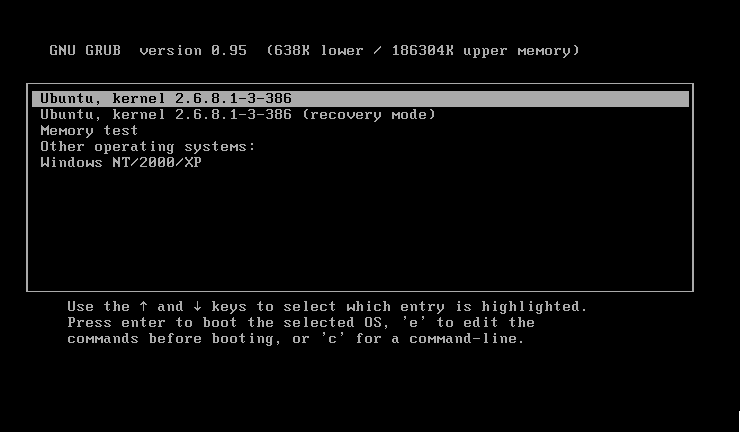
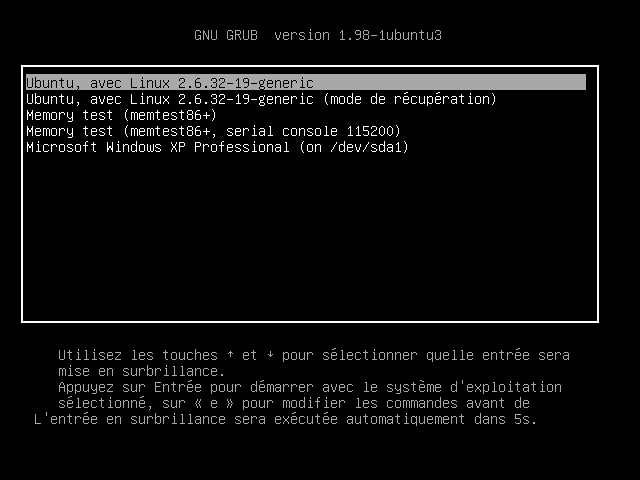
mise à jour chapitre 1 & 2

Changed region(s): [[0.0312, 0.0602, 0.9375, 0.9028]]

diff --git a/corps/chapitre2/chapitre2.tex b/corps/chapitre2/chapitre2.tex
@@ -47,16 +47,17 @@ Sur les ordinateurs récents, il est souvent possible d'appuyer simplement sur l
 Si cela ne fonctionne pas ou que vous ne vous sentez pas à même de configurer \RefGlossaire{Système}{-}{Séquence de démarrage}{l'ordre de démarrage}, Ubuntu peut effectuer cette tâche pour vous. Pour cela, insérez votre CD-ROM lorsque Windows est démarré. La fenêtre \ref{ImgHelpBootOnCD} apparaîtra alors et vous proposera plusieurs options en anglais. Choississez «~Démo and full installation~». Redémarrer la machine sera alors nécessaire et la troisième option «~Help me to boot from CD~» devra alors être sélectionné.
 \ImgCentree{8}{corps/chapitre2/img/HelpBootSurCD.png}{Vous pouvez choisir ici de démarrer sur le CD-ROM}{ImgHelpBootOnCD}
 \subsubsubsection{Premier écran et lancement d'Ubuntu}
-Un menu est automatiquement présenté sur lequel vous pourrez choisir la langue désirée par les touches fléchées puis en appuyant sur \Touche{Entrée}. Il vous est possible de revenir sur votre choix en appuyant sur la touche \Touche{F2}.\par
+Un premier écran \ref{ImgLiveCD0} s'affiche alors pendant quelques secondes. Si vous n'appuyez sur aucune touche, ubuntu démarrera (voir \ref{ImgLiveCD3}), et il vous sera présenté un écran \ref{ImgLiveCD4-2} vous permettant de choisir votre langue, puis soit d'installer, soit d'essayer d'ubuntu sans effectuer immédiatement l'installation. Si l'installation est sélectionnée, vous pouvez passer à la section \ref{RefInstall}, sinon, vous pouvez passer à \ref{RefSessionLive}.\par
+\ChoixDebutLive
+Si vous appuyez sur une touche lors du premier écran, un menu est automatiquement présenté sur lequel vous pourrez choisir la langue désirée par les touches fléchées puis en appuyant sur \Touche{Entrée}. Il vous est possible de revenir sur votre choix en appuyant sur la touche \Touche{F2}.\par
 Vous obtiendrez ainsi un menu et une interface en Français (ou autres) comme montré sur la figure \ref{ImgLiveCD2}.\par
-\ChoixDebutInstall
 À noter que vous n'aurez pas à faire cette action si vous utilisez le CD d'ubuntu-fr entièrement francisé, on l'a fait pour vous.
+\ChoixDebutInstall
 \section{Session Live}
 \label{RefSessionLive}
 C'est parti, vous avez validé «~Essayer Ubuntu sans rien changer sur votre ordinateur~», une session live se lance. Soyez patient, la détection du matériel de votre ordinateur est en cours et une jolie icône de chargement est là pour vous faire patienter, puis une barre défilante --- cf \ref{ImgLiveCD3}\ldots{}\par
-\ImgCentree{4.99}{corps/chapitre2/img/LiveCD3.png}{Démarrage du Desktop CD}{ImgLiveCD3}
 \begin{nota}
-Vous aurez noté l'option «~Installer Ubuntu~» sur l'image \ref{ImgLiveCD2}. Cette option correspond à un raccourci vous amenant directement à installer votre nouveau système d'exploitation sans essai au préalable. Le résultat est le même que la démarche plus complète que je vous donne -- hormis que vous ne pourrez pas configurer votre connexion à l'\RefGlossaire{-}{L'Internet}{Internet}{Internet} par ce moyen-ci.\\
+Vous aurez noté l'option «~Installer Ubuntu~» sur les images \ref{ImgLiveCD} \ref{ImgLiveCD2}. Cette option correspond à un raccourci vous amenant directement à installer votre nouveau système d'exploitation sans essai au préalable. Le résultat est le même que la démarche plus complète que je vous donne -- hormis que vous ne pourrez pas configurer votre connexion à l'\RefGlossaire{-}{L'Internet}{Internet}{Internet} par ce moyen-ci.\\
 Les autres options permettent de vérifier la bonne intégration de votre CD-ROM, tester la mémoire vive de votre ordinateur ou encore de démarrer classiquement à partir du disque dur.
 \end{nota}
 Une fois l'interface graphique chargée, vous devriez retrouver l'écran comme présenté en image \ref{ImgLiveCD4}.\par
@@ -66,6 +67,7 @@ Profitez-en pour découvrir votre futur \RefGlossaire{Système}{OS}{Système d'e
 Je vous conseille, si vous avez accès à l'\RefGlossaire{-}{L'Internet}{Internet}{Internet}, de configurer ce dernier si cela n'est déjà fait automatiquement. En effet, vous aurez ainsi les dernières mises à jour si vous décidez d'installer Ubuntu sur votre ordinateur, et ce, dès l'installation ! Essayez de lancer Firefox -- la première \RefGlossaire{-}{-}{Icône}{icône} à côté du menu «~Système~» -- pour le vérifier. Cela devrait être le cas, si vous êtes connecté par un câble Ethernet,  avec ou sans\NotePage{Oui, vous avez bien lu, même «~sans~», grâce à \RefGlossaire{Réseau}{Connexion réseau}{Avahi}{Avahi} que l'on peut choisir comme indiqué en \ref{RefAvahi}.} attribution des adresses par \RefGlossaire{Réseau}{Connexion réseau}{DHCP}{DHCP}. Dans tous les cas, veuillez vous référer à la section d'installation du réseau en \ref{RefInstallReseau}.
 \end{nota}
 \section{L'installation}
+\label{RefInstall}
 Un Live c'est beau, une installation c'est mieux ! Vous aimez Ubuntu et voulez l'installer ? Double-cliquez sur l'\RefGlossaire{-}{-}{Icône}{icône} «~Installer Ubuntu 9.10~» présente sur le bureau. L'installeur répondant au doux nom «~d'Ubiquity~» se lance\ldots{}
 \begin{attention}
 Petite remarque préalable sur les PCs tatoués.\label{RefTatouage}
